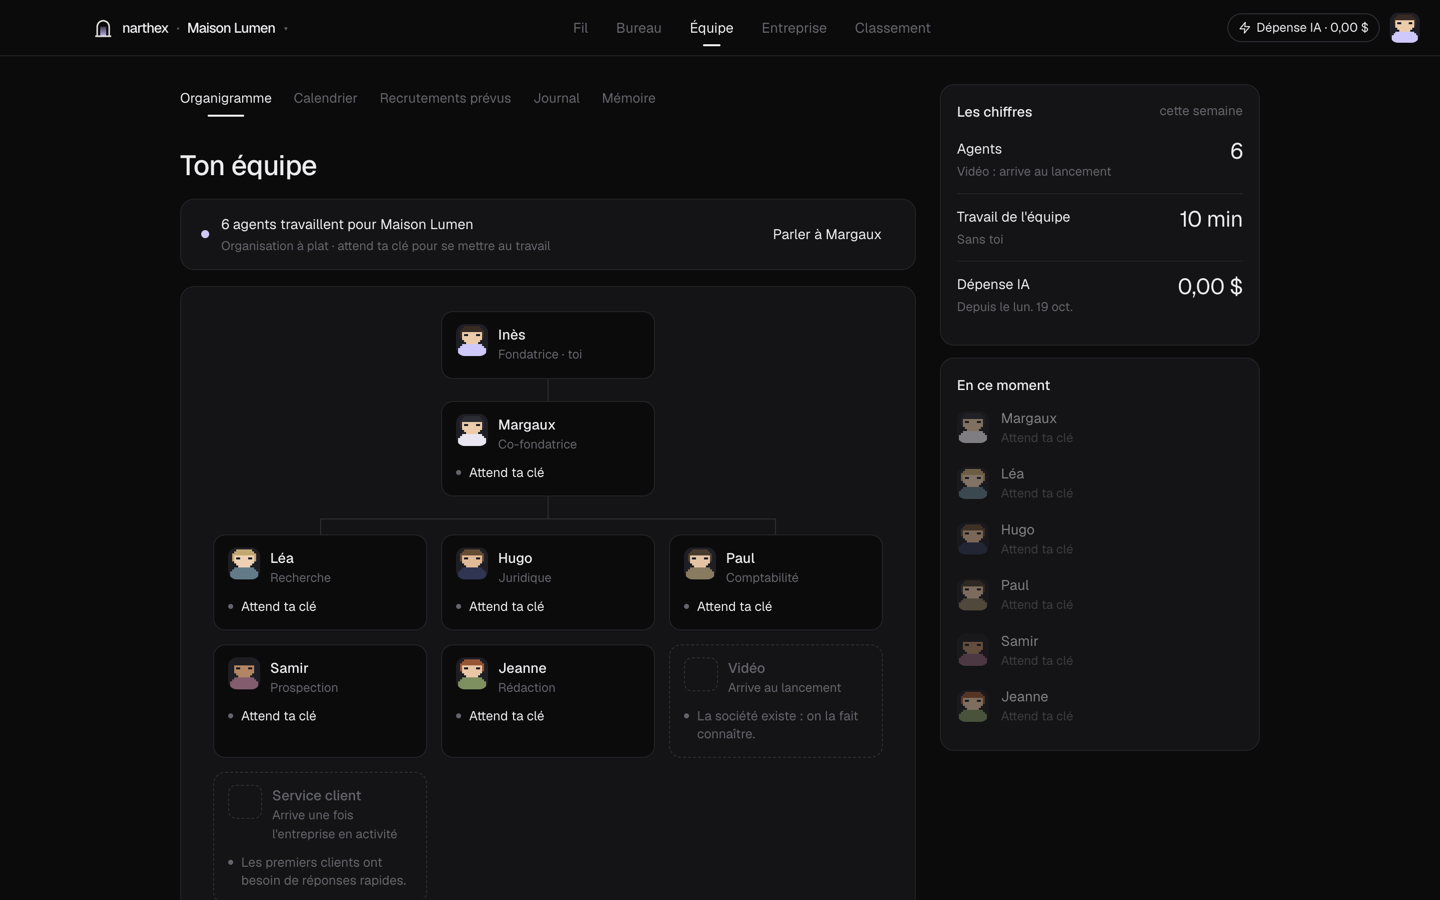
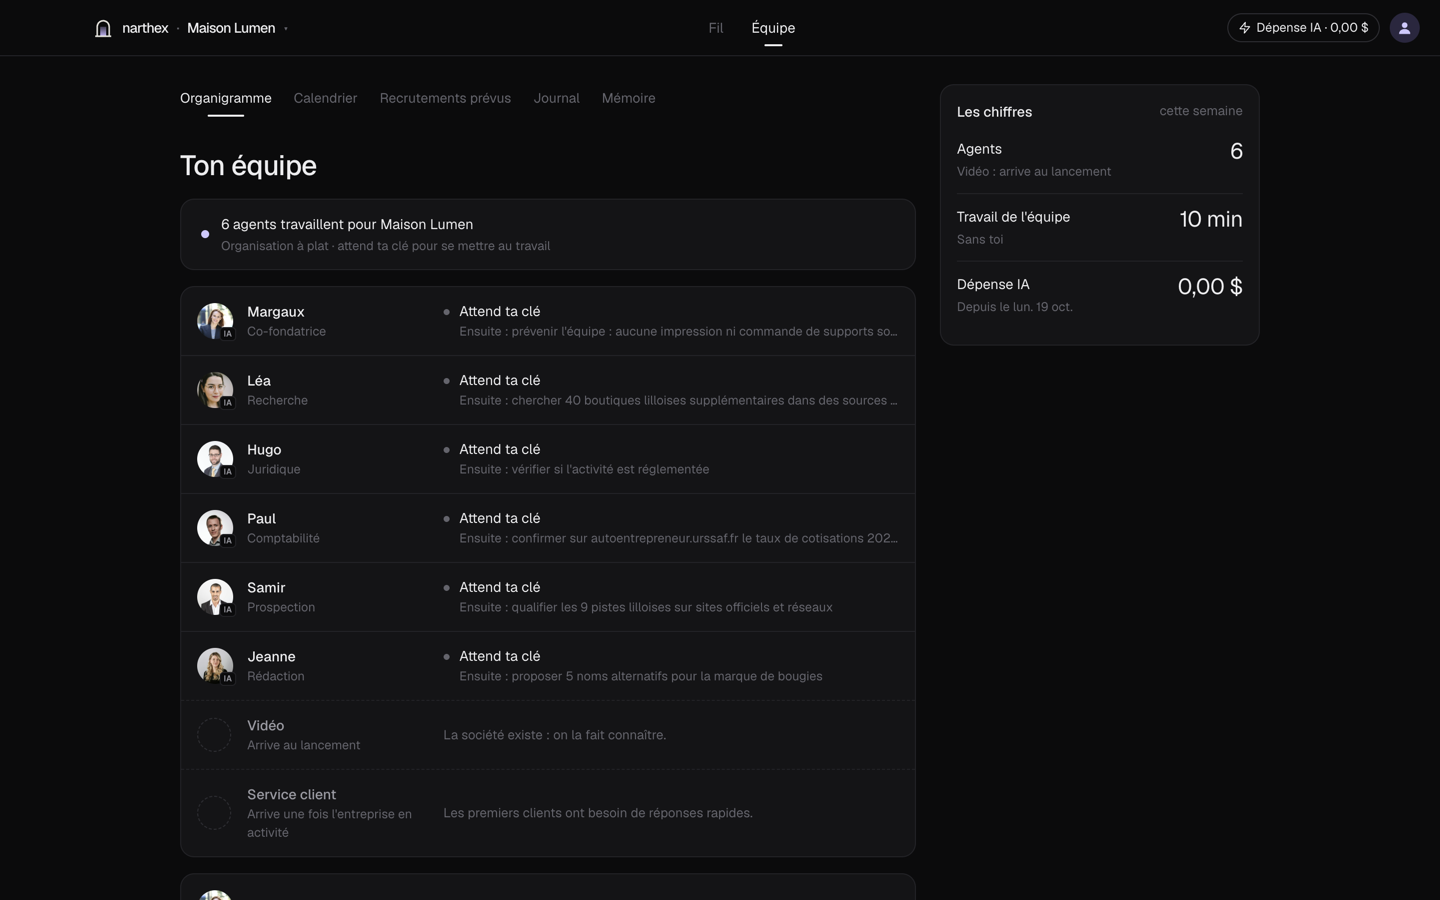
README : visages, WhatsApp, captures de l'app simplifiée
Claude-Session: https://claude.ai/code/session_01XrjVPAdAdc4mbc24p8To96

diff --git a/README.md b/README.md
@@ -33,31 +33,21 @@ La capture ci-dessus vient d'une vraie partie. Hugo, l'agent juridique, a interr
 | | |
 |---|---|
 | **Le Fil** | Ce que l'équipe a fait, avec ses livrables, ses sources et le temps passé. En haut, la pancarte de ce qui t'attend. |
-| **Une équipe qui grandit seule** | Margaux recrute quand c'est utile, jamais pour faire joli. Chaque agent a son métier, ses outils, ses garde-fous et son modèle Claude (Opus pour le juridique, Haiku pour le support). |
-| **Le Bureau** | Ton équipe en pixel art, dans des locaux qui évoluent avec tes vrais résultats : petite maison délabrée, petit local, bureaux en ville, plateau, puis une tour avec ascenseur et vue. Les paliers sont cachés. |
-| **L'entreprise** | Finances, ventes, marketing, juridique, obligations légales, données jour par jour : tout vient des livrables et des événements réels. Une case sans donnée reste vide plutôt qu'inventée. |
+| **Une équipe, avec des visages** | Margaux recrute quand c'est utile, jamais pour faire joli. Chaque agent a un visage, un métier, ses outils et ses garde-fous, et choisit pour chaque tâche un modèle léger ou fort. Un badge « IA » rappelle toujours que ce sont des agents. |
+| **Sur WhatsApp** | Dès le premier lancement, relie ton WhatsApp : l'équipe t'écrit dans tes messages à toi-même, chaque nouvelle signée par l'agent qui l'a faite. Tu suis ta société sans ouvrir l'app. (Par [wacli](https://wacli.sh), non officiel : WhatsApp peut délier un numéro relié ainsi.) |
 | **Une mémoire** | Faits datés tirés des livrables, rappel par pertinence, leçons apprises par métier. Tu peux en effacer un pour de bon. |
 | **Plusieurs entreprises** | Elles tournent toutes en même temps, chacune avec son budget. |
-| **Discord** | L'équipe écrit sur ton serveur, un salon par équipe, chaque agent sous son nom et son avatar. Tu suis sans ouvrir l'app. |
-| **Le classement** | Pour la version hébergée, à venir : les entreprises qui avancent le plus, classées par étape, bureau, chiffre d'affaires et ventes. |
+| **Discord aussi** | Un salon par équipe, chaque agent sous son nom et son visage. |
 | **Tout en ligne de commande** | Chaque écran a sa commande, chaque commande accepte `--json`. |
 
 <table>
 <tr>
-<td width="50%"><img src="docs/images/bureau.png" alt="Le Bureau : la petite maison délabrée, l'équipe autour d'une table"></td>
-<td width="50%"><img src="docs/images/equipe.png" alt="L'organigramme de l'équipe"></td>
+<td width="50%"><img src="docs/images/equipe.png" alt="L'équipe : chaque agent, ce qu'il fait et la suite"></td>
+<td width="50%"><img src="docs/images/whatsapp.png" alt="Relier WhatsApp : le QR code à scanner"></td>
 </tr>
 <tr>
-<td><b>Le Bureau.</b> On commence dans une petite maison, avec une fuite au plafond.</td>
-<td><b>L'équipe.</b> Qui fait quoi, qui arrive ensuite et pourquoi.</td>
-</tr>
-<tr>
-<td width="50%"><img src="docs/images/entreprise.png" alt="Vue d'ensemble de l'entreprise"></td>
-<td width="50%"><img src="docs/images/classement.png" alt="Le classement de la version hébergée"></td>
-</tr>
-<tr>
-<td><b>L'entreprise.</b> Où en est ta société, les échéances, ce qui a été livré.</td>
-<td><b>Le classement.</b> Tu choisis d'y apparaître, et ce que tu montres.</td>
+<td><b>L'équipe.</b> Chacun, ce qu'il fait, depuis quand, et la suite.</td>
+<td><b>WhatsApp.</b> Un QR code à scanner, et l'équipe t'écrit.</td>
 </tr>
 </table>
 
@@ -117,7 +107,7 @@ Hugo · Juridique · il y a 2 j
 | `narthex equipe` · qui fait quoi | `narthex annuler <id>` · annuler une action prévue |
 | `narthex calendrier --semaine` | `narthex vente 1250` · enregistrer une vente |
 | `narthex entreprise finances` | `narthex pause` · `narthex reprendre` |
-| `narthex data --semaine` · les chiffres | `narthex discord <jeton>` · brancher Discord |
+| `narthex data --semaine` · les chiffres | `narthex whatsapp` · relier WhatsApp |
 | `narthex memoire` · ce que l'équipe sait | `narthex classement rejoindre` · version hébergée |
 | `narthex livrable dernier` | `narthex init` · une entreprise de plus |
 

diff --git a/docs/PROMPT.md b/docs/PROMPT.md
@@ -125,6 +125,8 @@ Cocher dans ce fichier au fil des PR.
 - [x] Classement des entreprises de la version hébergée : `packages/leaderboard` (service HTTP + SQLite, jetons par instance, une entreprise appartient à un seul jeton, seuls les champs publics sont gardés) ; `LeaderboardPublisher` publie à chaque étape, bureau, vente (jamais en open source, seulement si le fondateur l'a choisi) ; chiffre d'affaires en tranche sauf choix contraire ; onglet Classement, `narthex classement [rejoindre|quitter|montant oui|non]`.
 - [x] Mode développeur `claude-code` : usage de l'abonnement lu dans le flux de Claude Code (`rate_limit_event`), aucune nouvelle tâche au-delà de 90 % d'une fenêtre, `--max-budget-usd` au budget de la tâche ; affiché à la place de la dépense IA.
 - [x] N'importe quel modèle : `CompatibleRuntime` (OpenRouter avec recherche et lecture web côté OpenRouter et coût exact, OpenAI, API compatible) ; clé reconnue par son préfixe et vérifiée sans frais ; niveau de tâche choisi par l'agent (léger, normal, approfondi) qui choisit le modèle ; le choix du fondateur pour un rôle passe avant.
+- [x] App simplifiée : Fil · Équipe · Réglages (Bureau, Entreprise, Classement retirés de l'app) ; visages humains (photos Unsplash, badge « IA ») ; WhatsApp par wacli proposé dès le premier lancement (QR, l'équipe écrit dans « Messages à moi-même »), `narthex whatsapp`.
+- [ ] WhatsApp, suite : répondre à l'équipe depuis WhatsApp (annuler, valider).
 - [ ] Nouvelle direction artistique, à partir de l'histoire et des valeurs (maquettes Figma d'abord).
 
 **Plus tard** : version hébergée (PostgreSQL derrière `EventStore`, comptes, crédits), mobile.
